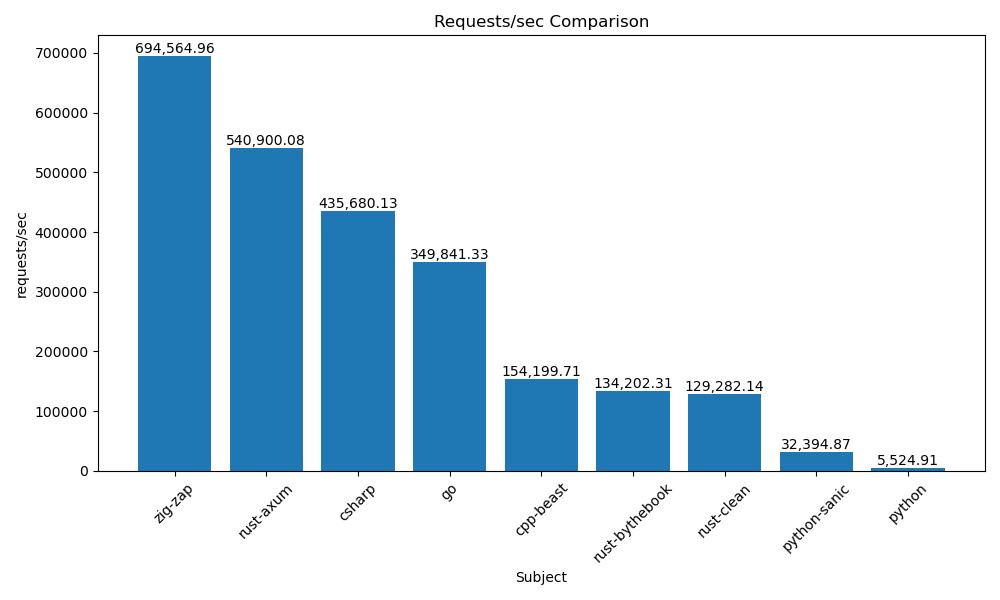
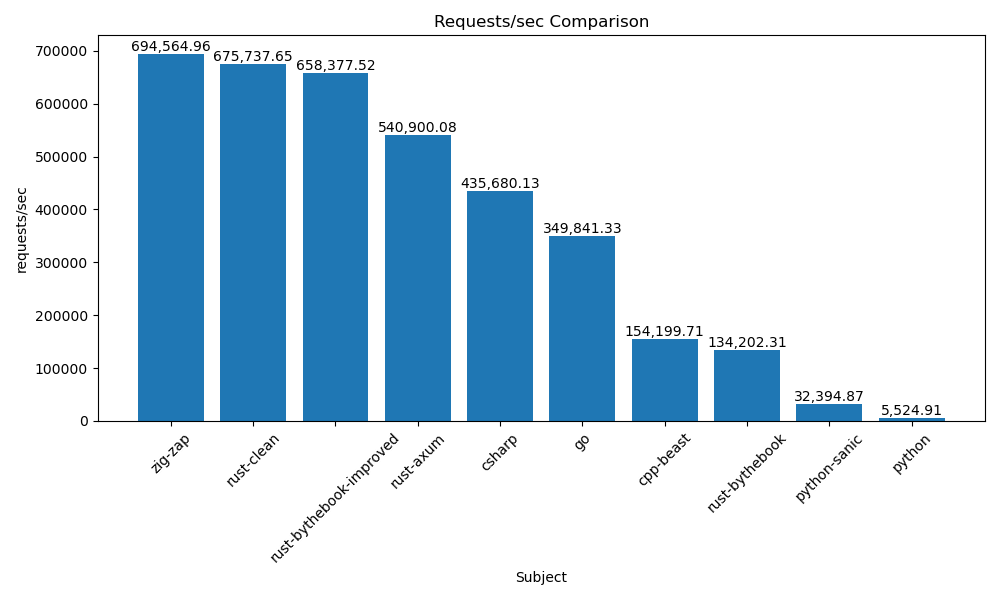
Incorporate changes from #37
I intentionally kept the bythebook example for reference.

diff --git a/wrk/rust/bythebook-improved/src/lib.rs b/wrk/rust/bythebook-improved/src/lib.rs
@@ -1,0 +1,101 @@
+//Crossbeam should, but does not make this faster.
+//use crossbeam::channel::bounded;
+use std::{net::TcpStream, sync::mpsc, thread};
+type Job = (fn(TcpStream), TcpStream);
+
+type Sender = mpsc::Sender<Job>;
+//type Sender = crossbeam::channel::Sender<Job>;
+
+type Receiver = mpsc::Receiver<Job>;
+//type Receiver = crossbeam::channel::Receiver<Job>;
+
+pub struct ThreadPool {
+    workers: Vec<Worker>,
+    senders: Vec<Sender>,
+
+    next_sender: usize,
+}
+
+impl ThreadPool {
+    /// Create a new ThreadPool.
+    ///
+    /// The size is the number of threads in the pool.
+    ///
+    /// # Panics
+    ///
+    /// The `new` function will panic if the size is zero.
+    pub fn new(size: usize) -> ThreadPool {
+        assert!(size > 0);
+
+        let mut workers = Vec::with_capacity(size);
+        let mut senders = Vec::with_capacity(size);
+
+        for id in 0..size {
+            //let (sender, receiver) = bounded(2);
+            let (sender, receiver) = mpsc::channel();
+            senders.push(sender);
+            workers.push(Worker::new(id, receiver));
+        }
+
+        ThreadPool {
+            workers,
+            senders,
+            next_sender: 0,
+        }
+    }
+    /// round robin over available workers to ensure we never have to buffer requests
+    pub fn execute(&mut self, handler: fn(TcpStream), stream: TcpStream) {
+        let job = (handler, stream);
+        self.senders[self.next_sender].send(job).unwrap();
+        //self.senders[self.next_sender].try_send(job).unwrap();
+        self.next_sender += 1;
+        if self.next_sender == self.senders.len() {
+            self.next_sender = 0;
+        }
+    }
+}
+
+impl Drop for ThreadPool {
+    fn drop(&mut self) {
+        self.senders.clear();
+
+        for worker in &mut self.workers {
+            println!("Shutting down worker {}", worker.id);
+            if let Some(thread) = worker.thread.take() {
+                thread.join().unwrap();
+            }
+        }
+    }
+}
+
+struct Worker {
+    id: usize,
+    thread: Option<thread::JoinHandle<()>>,
+}
+
+impl Worker {
+    fn new(id: usize, receiver: Receiver) -> Worker {
+        let thread = thread::spawn(move || Self::work(receiver));
+
+        Worker {
+            id,
+            thread: Some(thread),
+        }
+    }
+
+    fn work(receiver: Receiver) {
+        loop {
+            let message = receiver.recv();
+            match message {
+                Ok((handler, stream)) => {
+                    // println!("Worker  got a job; executing.");
+                    handler(stream);
+                }
+                Err(_) => {
+                    // println!("Worker  disconnected; shutting down.");
+                    break;
+                }
+            }
+        }
+    }
+}

diff --git a/wrk/rust/bythebook-improved/src/main.rs b/wrk/rust/bythebook-improved/src/main.rs
@@ -1,14 +1,17 @@
+use hello::ThreadPool;
 use std::io::prelude::*;
 use std::net::TcpListener;
 use std::net::TcpStream;
 
 fn main() {
-    let listener = TcpListener::bind("127.0.0.1:7878").unwrap();    
+    let listener = TcpListener::bind("127.0.0.1:7878").unwrap();
+    //Creating a massive amount of threads so we can always have one ready to go.
+    let mut pool = ThreadPool::new(128);
 
     for stream in listener.incoming() {
         let stream = stream.unwrap();
         //handle_connection(stream);
-        std::thread::spawn(||{handle_connection(stream)});        
+        pool.execute(handle_connection, stream);
     }
 
     println!("Shutting down.");
@@ -28,5 +31,4 @@ fn handle_connection(mut stream: TcpStream) {
         
         stream.write_all(response_bytes).unwrap();
     }
-
 }
